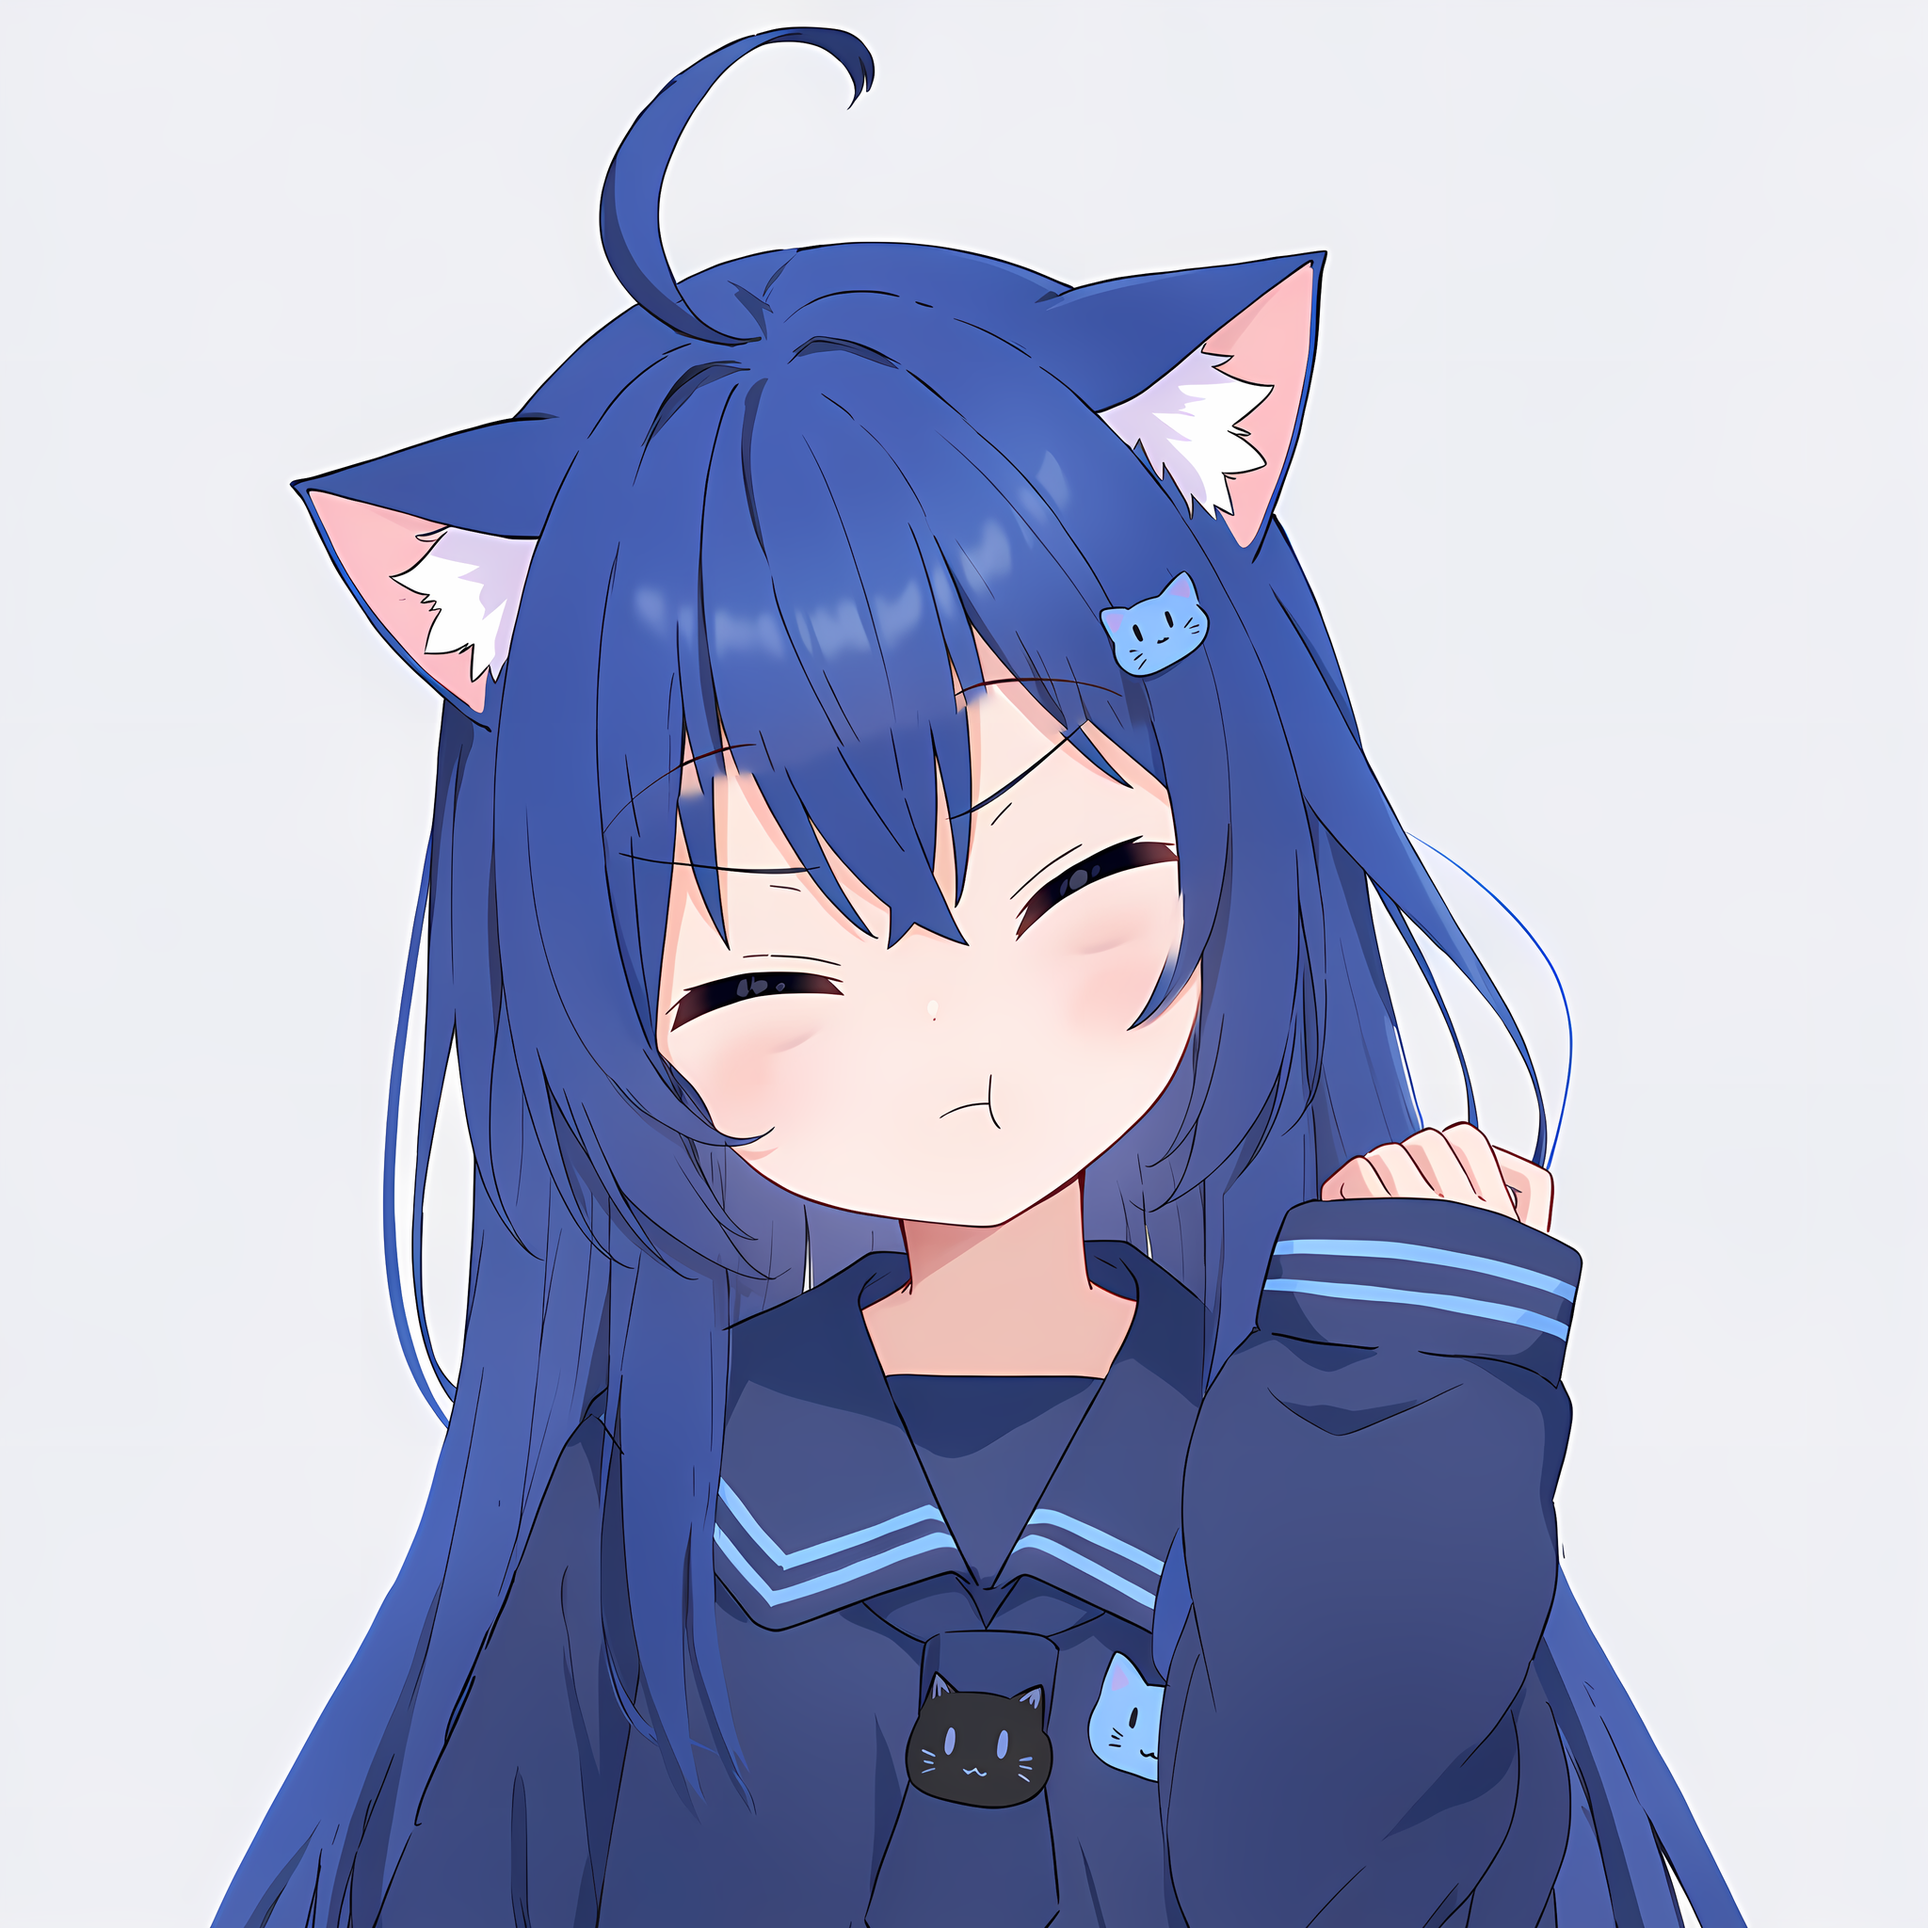
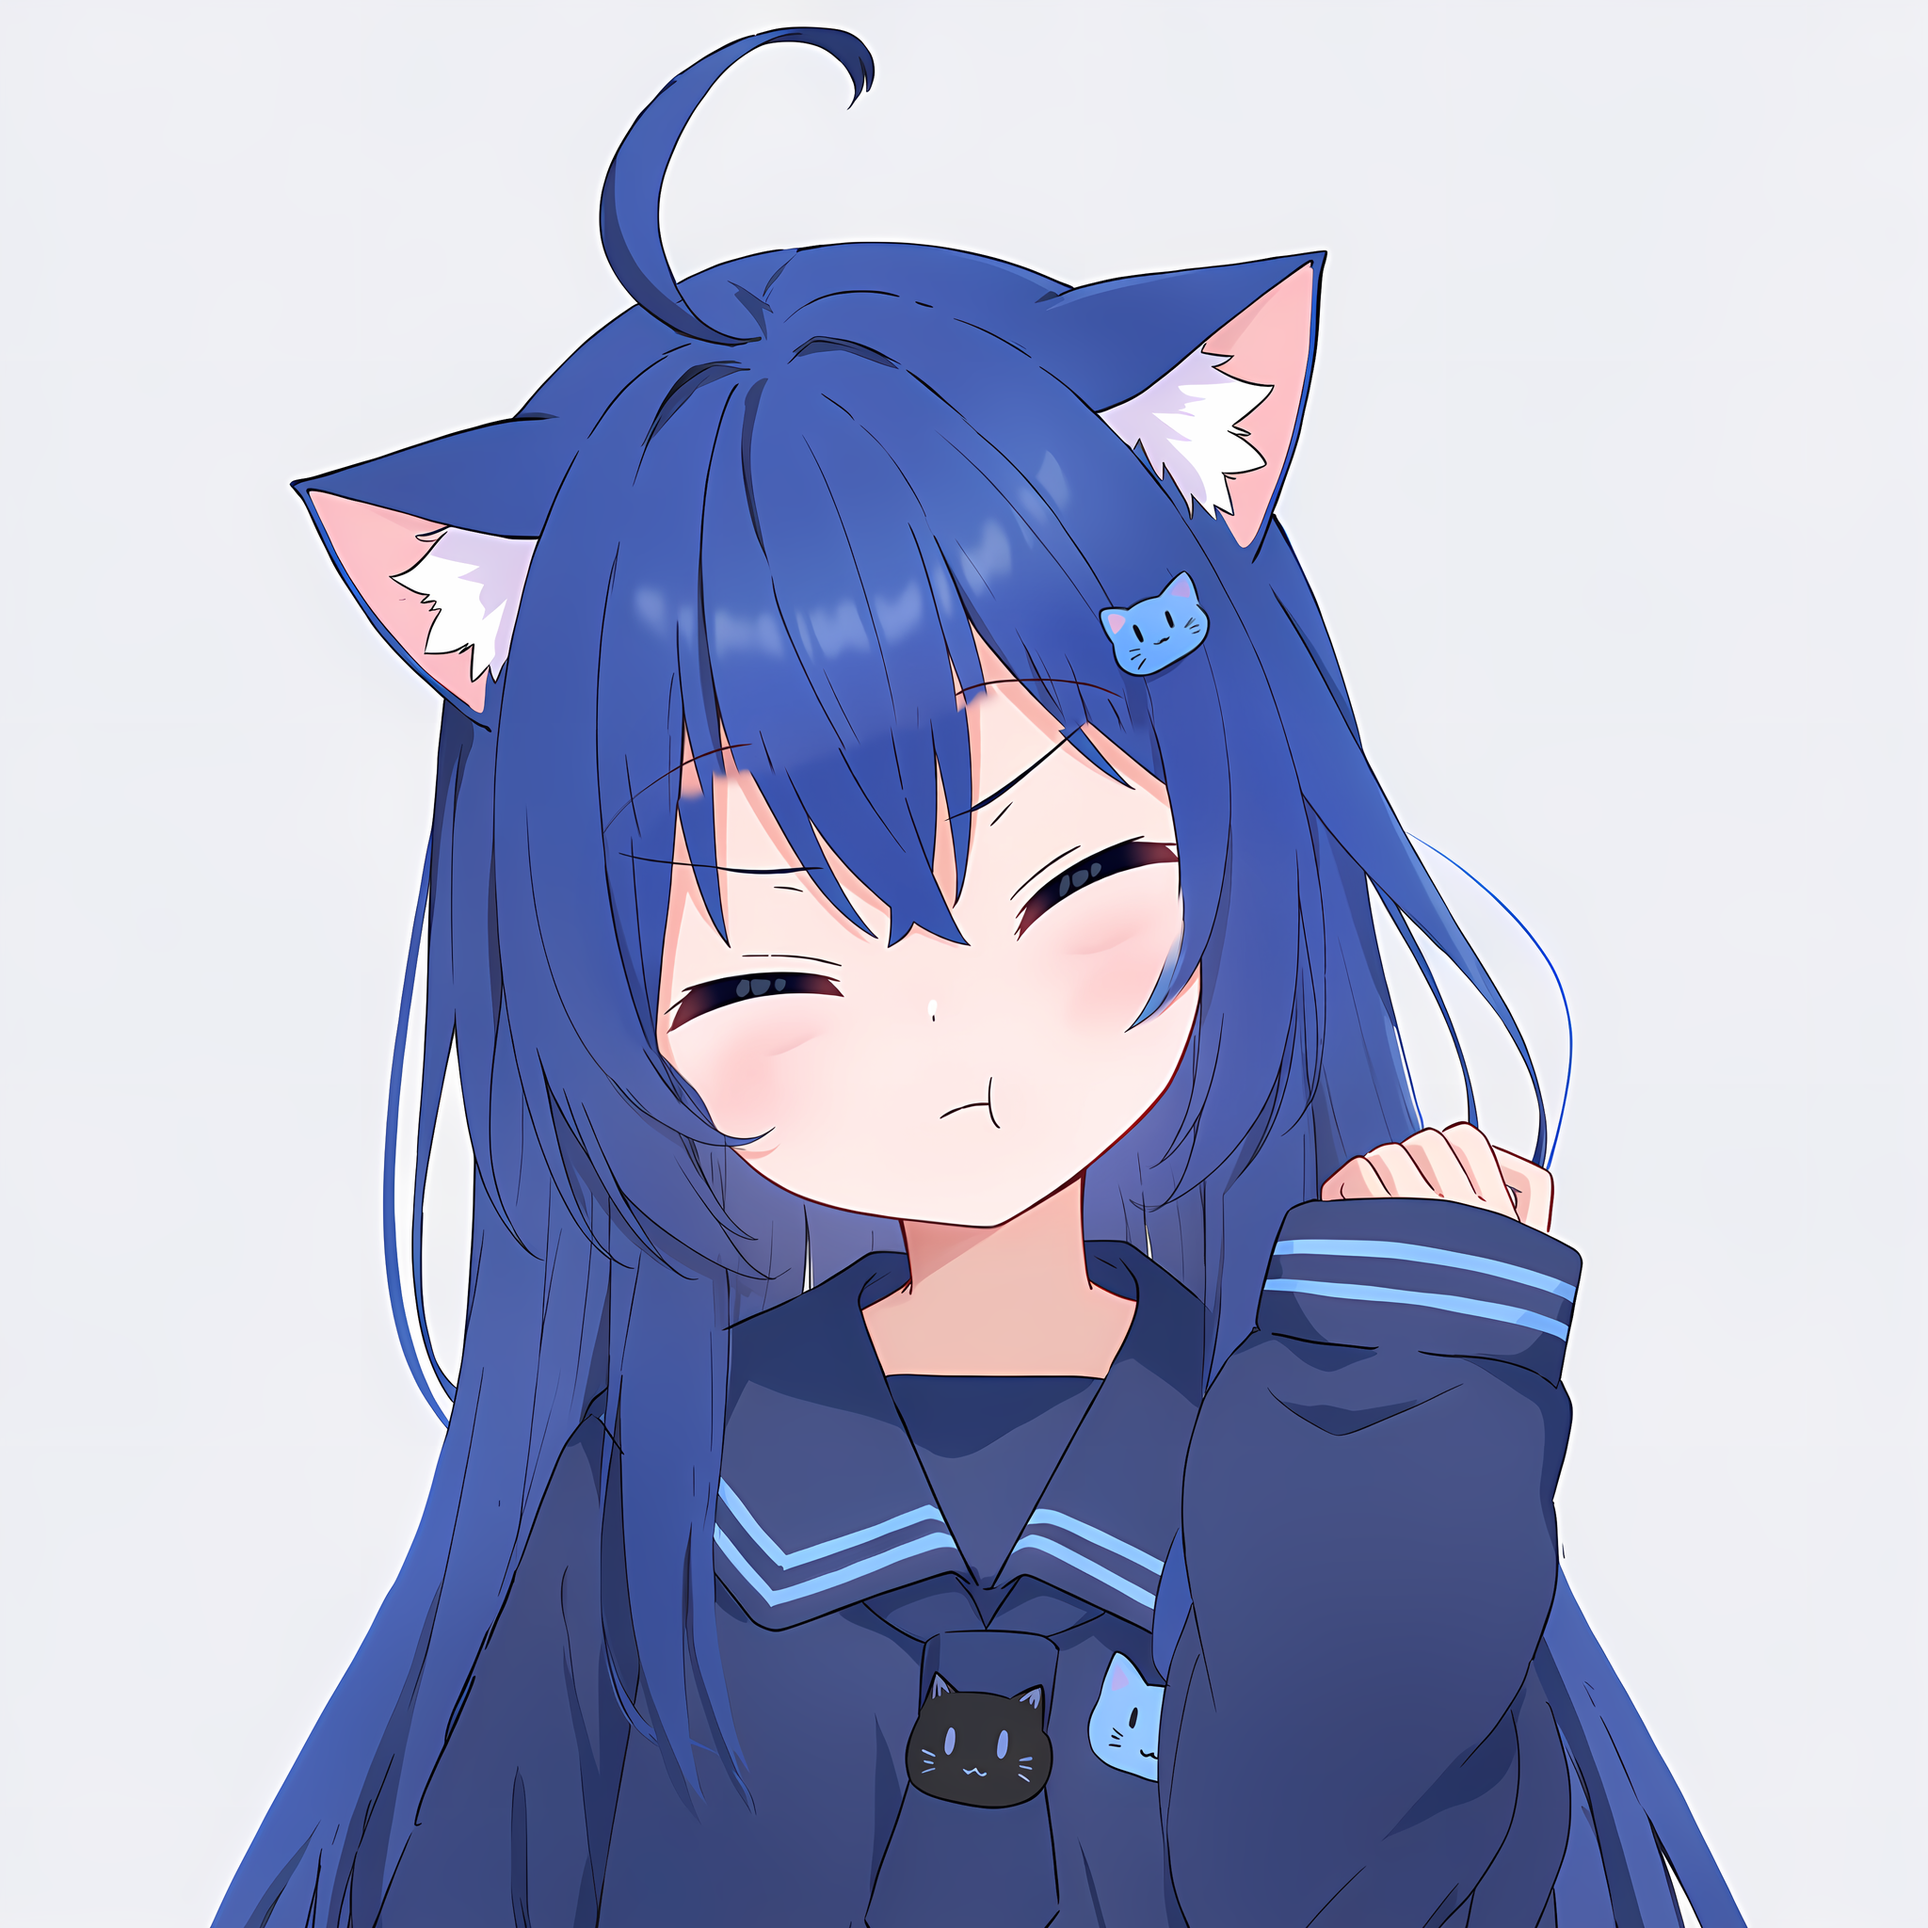
Stream cam pout frame: clean face from a V5 redraw (grey-blue smudges under the closed eyes)
Claude-Session: https://claude.ai/code/session_01GKXVvPC41YyqGb5GSzVgnW

diff --git a/pixel/vtfix.py b/pixel/vtfix.py
@@ -1,0 +1,38 @@
+"""Fix the stream-cam pout frame (owner 2026-11-05: "the colours on the face look off", 1:40): its closed eyes had
+grey-blue smudges under them and dark grey lids. The face of a V5 img2img redraw (art/generated/vtuber3/fix,
+pout_0.30_69002, same expression, clean pink blush) is transplanted back into final/pout.png with a feathered
+ellipse, its colours matched to the frame's skin.
+
+usage: python3 vtfix.py
+"""
+from pathlib import Path
+
+import numpy as np
+from PIL import Image, ImageDraw, ImageFilter
+
+ROOT = Path(__file__).parent.parent
+FINAL = ROOT / "art/generated/vtuber3/final/pout.png"
+FIX = ROOT / "art/generated/vtuber3/fix/pout_0.30_69002.png"
+BOX = (560, 380)                     # crop origin in the 2048 frame (fix/pout_crop.png)
+FACE = (90, 240, 900, 930)           # ellipse in crop px: eyes, cheeks, mouth
+
+
+def build():
+    base = Image.open(FINAL).convert("RGB")
+    crop = base.crop((BOX[0], BOX[1], BOX[0] + 1024, BOX[1] + 1024))
+    red = Image.open(FIX).convert("RGB").resize((1024, 1024))
+    a, b = np.asarray(crop).astype(np.float32), np.asarray(red).astype(np.float32)
+    skin = (a[..., 0] > 235) & (a[..., 0] > a[..., 2] + 15) & (b[..., 0] > 235)
+    b[skin] += np.median(a[skin] - b[skin], 0) * 0.5         # half-way: keep the cleaner tone, no visible seam
+    red = Image.fromarray(b.clip(0, 255).astype(np.uint8))
+    m = Image.new("L", (1024, 1024), 0)
+    ImageDraw.Draw(m).ellipse(FACE, fill=255)
+    m = m.filter(ImageFilter.GaussianBlur(28))
+    out = base.copy()
+    out.paste(Image.composite(red, crop, m), BOX)
+    out.save(FINAL)
+    return out
+
+
+if __name__ == "__main__":
+    build()
